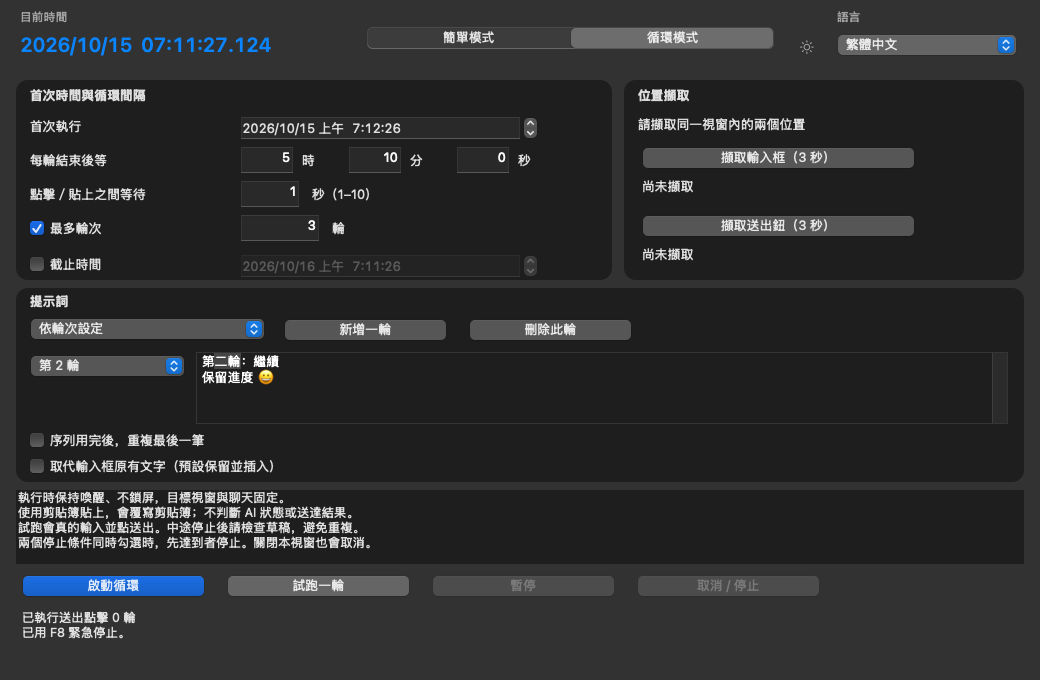
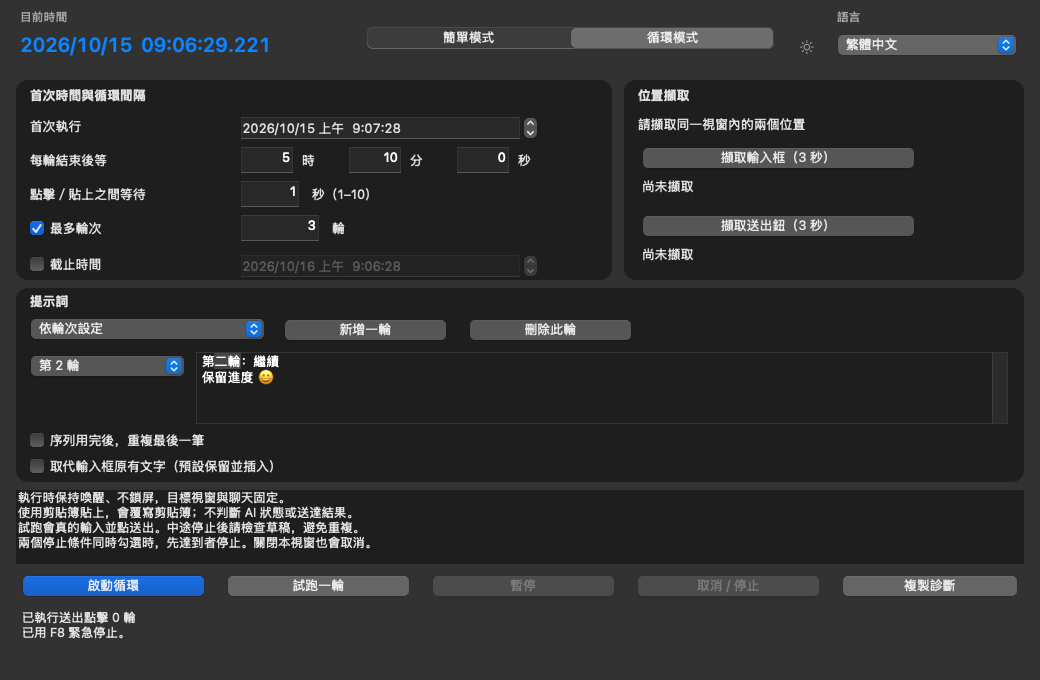
Document verified Mac build12003 and pending native foreground acceptance

diff --git a/docs/download/index.html b/docs/download/index.html
@@ -56,5 +56,5 @@
       <h2>Which files should I download?</h2><table><thead><tr><th>File</th><th>Purpose</th></tr></thead><tbody><tr><td><code>ScheduledClicker.exe</code></td><td>The Windows 11 application.</td></tr><tr><td><code>ScheduledClicker-macOS-universal.zip</code></td><td>The macOS app archive for Apple silicon and Intel.</td></tr><tr><td><code>ScheduledClicker-macOS-universal.sha256</code></td><td>A text checksum used to verify the macOS ZIP; not an application.</td></tr><tr><td>Source code archives</td><td>Automatically generated GitHub snapshots for developers who want to inspect or build the source.</td></tr></tbody></table>
       <h2>Before running</h2><p>Read the <a href="../safety-and-verification/">safety and verification guide</a>. Windows may show SmartScreen because the EXE is unsigned. macOS may require Control-click → Open and explicit Accessibility permission because the app is not notarized.</p>
     </section>
-  <section class="prose" id="preview"><h2>Preview 1.2.0-preview.2: loop mode, languages and appearance</h2><p>This is a test candidate, separate from the stable v1.1.2 buttons above. Windows redesign owner testing passed; preview-2 fixes pass regression checks. Mac Safari input needs owner retesting after the focus correction.</p><ol><li>Open the <a href="https://github.com/HaNa-486/ScheduledClicker/actions/runs/38696929654">verified preview build</a> (source commit <code>7a75cba</code>). Both platform jobs passed.</li><li>For macOS, download the <code>ScheduledClicker-macOS-universal</code> artifact. GitHub sign-in is required; artifacts expire.</li><li>Extract the outer artifact ZIP, then extract <code>ScheduledClicker-macOS-universal.zip</code> inside it. The app supports macOS 13+ on Apple silicon and Intel.</li><li>Compare <code>shasum -a 256 ScheduledClicker-macOS-universal.zip</code> with its adjacent <code>.sha256</code> file. Move the extracted app to Applications before granting Accessibility permission.</li></ol><p>The app is ad-hoc signed, not Apple-notarized. If macOS blocks opening, use its Privacy &amp; Security approval controls; do not disable Gatekeeper globally. After replacing an older build, macOS may require renewed Accessibility approval. Begin with a disposable text target and one trial round.</p><p>For Windows preview source/build instructions and current candidate evidence, see the <a href="https://github.com/HaNa-486/ScheduledClicker/tree/codex/recurring-prompt-loop">feature branch</a>. <a href="../recurring-input/">Read the feature and behavior guide</a>.</p></section></main><footer><span>ScheduledClicker 1.1.2 · MIT License</span><span><a href="../">Home</a> · <a href="../faq/">FAQ</a></span></footer>
+  <section class="prose" id="preview"><h2>Preview 1.2.0-preview.2: loop mode, languages and appearance</h2><p>This is a test candidate, separate from the stable v1.1.2 buttons above. Windows redesign owner testing passed; preview-2 fixes pass regression checks. Mac build 12002 failed native Safari and Word tests. The current Mac build 12003 changes foreground verification and activation; native owner acceptance is still pending.</p><ol><li>Open the <a href="https://github.com/HaNa-486/ScheduledClicker/actions/runs/38710315157">verified preview build</a> (source commit <code>05861ea</code>). Both platform jobs passed.</li><li>For macOS, download the <a href="https://github.com/HaNa-486/ScheduledClicker/actions/runs/38710315157/artifacts/11960920186">exact build 12003 artifact</a> named <code>ScheduledClicker-macOS-universal</code>. Confirm <code>build 12003</code> in the app title; capture labels should name your target app. If a trial fails, use Copy diagnostics. GitHub sign-in is required; artifacts expire.</li><li>Extract the outer artifact ZIP, then extract <code>ScheduledClicker-macOS-universal.zip</code> inside it. The app supports macOS 13+ on Apple silicon and Intel.</li><li>Compare <code>shasum -a 256 ScheduledClicker-macOS-universal.zip</code> with its adjacent <code>.sha256</code> file. Move the extracted app to Applications before granting Accessibility permission.</li></ol><p>The app is ad-hoc signed, not Apple-notarized. If macOS blocks opening, use its Privacy &amp; Security approval controls; do not disable Gatekeeper globally. After replacing an older build, macOS may require renewed Accessibility approval. Begin with a disposable text target and one trial round.</p><p>For Windows preview source/build instructions and current candidate evidence, see the <a href="https://github.com/HaNa-486/ScheduledClicker/tree/codex/recurring-prompt-loop">feature branch</a>. <a href="../recurring-input/">Read the feature and behavior guide</a>.</p></section></main><footer><span>ScheduledClicker 1.1.2 · MIT License</span><span><a href="../">Home</a> · <a href="../faq/">FAQ</a></span></footer>
 </body></html>

diff --git a/.pdos/STATE.md b/.pdos/STATE.md
@@ -1,15 +1,15 @@
 # PDOS state
 
 - Protocol version: 0.4.0-alpha.1
-- State revision: 24
+- State revision: 25
 - Updated: 2026-10-15
 - State confidence: high for Windows owner acceptance and both-platform CI/core/UI evidence; Mac native external input remains unverified
-- Phase: preview.2 native retest failed; foreground diagnosis and activation correction in progress, no release
+- Phase: build 12002 native retest failed; build 12003 correction delivered for native acceptance, no release
 
 ## Repository identity
 
 - Branch: codex/recurring-prompt-loop
-- Observed commit: d07f0cf
+- Observed commit: 05861ea
 
 ## Product anchors
 
@@ -21,21 +21,21 @@
 
 ## Current work
 
-- Current slice: Owner confirms new app replaced, caret visible, Safari and Word fail with complete no-code focus message. Under build12002 this maps to NSWorkspace foreground PID guard; wrong captured owner vs foreground-state discrepancy remain unproven. Add live AX keyboard-owner check, separate bounded activation phase and content-free diagnostics.
-- Workstream: `workstreams/2026-10-15-macos-foreground-diagnosis.md` active; earlier workstreams paused.
+- Current slice: Owner confirms new app replaced, caret visible, Safari and Word fail with complete no-code focus message. Under build12002 this maps to NSWorkspace foreground PID guard; wrong captured owner vs foreground-state discrepancy remain unproven. Live AX keyboard-owner check, separate bounded activation phase and content-free diagnostics implemented in build 12003; underlying native trigger still unproven.
+- Workstream: `workstreams/2026-10-15-macos-foreground-diagnosis.md` paused for owner native acceptance; earlier workstreams paused.
 - Active review: `reviews/REV-20261015-macos-input.md`; independent focus/privacy source recheck passes, no native Safari claim.
-- Active remediations: localized starter F002 verified; focus F001 and wheel F003 implemented pending owner native acceptance. Earlier loop wrong-window F001 remains unverified.
+- Active remediations: localized starter F002 verified; focus F001, foreground F004 and wheel F003 implemented pending owner native acceptance. Earlier loop wrong-window F001 remains unverified.
 - Blocking dependencies: none for candidate/source delivery. Native Mac Accessibility, paste/send and physical F8 require a Mac desktop.
 - Consequential open decisions: production merge, stable release, site deployment and Developer ID signing/notarization remain owner-controlled. Current user request authorizes feature-branch push and Mac CI after Windows acceptance.
 
 ## Handoff
 
-- What changed: preview.2 / Mac build 12002 uses AX owning-window identity and top-level checks, content-free focus diagnostics, localized untouched starter prompts on both platforms and bounded Mac wheel number fields. Discovery source/download links updated to this candidate.
-- Verification evidence: CI 38696929654 at 7a75cba both platforms pass. Mac 21/40 core, 9 focus-policy, 15 number-field, 1091 localization checks and 24 UI renders; Windows full regression plus 2077 localization checks. ZIP hash/version verified. See `../VERIFICATION.md`.
+- What changed: Mac build 12003 uses live AX keyboard owner, staged target activation with wait/revalidation, captured app and build labels, and copyable content-free diagnostics. Existing identity, localized starter and wheel changes retained. README/download source and AI summary point to this exact candidate.
+- Verification evidence: CI 38710315157 at 05861ea both platforms pass. Mac 21/54 core, 10 focus-policy, 15 number-field, 1111 localization and 24 renders; Windows full regression plus 2097 localization. ZIP build12003/hash checked; independent state/privacy review passes. See `../VERIFICATION.md`.
 - Not verified: Mac native external clipboard/paste/send, wrong sibling window rejection, physical F8 routing, every display/DPI/assistive-technology combination, notarization and live site publication.
 - Residual risks: fixed coordinates cannot identify changed chat/field semantics; send click does not prove delivery; clipboard is overwritten and may retain prompt; cancellation cannot undo completed input. CI artifacts expire and require GitHub sign-in.
 - Release assessment: native Mac loop acceptance failed on preview.1; preview.2 also failed Safari and Word native retest, not a stable cross-platform release. Windows owner accepted the local redesign. Tracked prior release executable preserved; website source is not deployed.
-- Next safe action: owner repeats Safari trial and sibling-window refusal using preview.2/build 12002, plus numeric wheel and untouched prompt language checks; no formal release until accepted.
+- Next safe action: owner confirms title build12003 and correct captured app, repeats Safari/Word trial and wrong-window refusal; if failed, Copy diagnostics identifies exact stage and OS. No formal release until native acceptance.
 
 ## Read next
 

diff --git a/README.md b/README.md
@@ -15,7 +15,7 @@ It was created for workflows such as sending a prepared Codex message after the 
 
 ## Key features
 
-**Preview 1.2.0-preview.2:** bounded recurring input/send, a shared simple/loop window, five interface languages and system-selected light/dark appearance. Windows owner testing of the redesign passed on 2026-10-15; the preview-2 fixes pass automated regression checks. Mac universal build and native appearance evidence passed [CI run 38696929654](https://github.com/HaNa-486/ScheduledClicker/actions/runs/38696929654); native input still requires a local desktop test. Released v1.1.2 downloads provide the one-shot workflow below.
+**Preview 1.2.0-preview.2:** bounded recurring input/send, a shared simple/loop window, five interface languages and system-selected light/dark appearance. Windows owner testing of the redesign passed on 2026-10-15; the preview-2 fixes pass automated regression checks. Mac universal build and native appearance evidence passed [CI run 38710315157](https://github.com/HaNa-486/ScheduledClicker/actions/runs/38710315157); Mac build 12003 updates foreground verification and activation after build 12002 failed native Safari and Word tests. Native input remains pending owner acceptance. Released v1.1.2 downloads provide the one-shot workflow below.
 
 - Schedule one click at an exact future date and time.
 - Schedule one click after a seconds, minutes, or hours delay.
@@ -37,7 +37,9 @@ These changes are **unreleased**. Windows is available as a local review candida
 
 ## Preview Mac download and local test
 
-Open the successful [feature branch build](https://github.com/HaNa-486/ScheduledClicker/actions/runs/38696929654), sign in to GitHub, and download `ScheduledClicker-macOS-universal`. Extract the outer Actions artifact, then extract the app ZIP inside. Verify its adjacent SHA-256, move the app to Applications, and grant Accessibility permission. Builds are ad-hoc signed, not Apple-notarized; artifacts expire. Source bundle metadata is 1.2.0, build 12002, identifying this preview rather than the stable v1.1.2.
+Open the successful [feature branch build](https://github.com/HaNa-486/ScheduledClicker/actions/runs/38710315157), sign in to GitHub, and download `ScheduledClicker-macOS-universal`. Extract the outer Actions artifact, then extract the app ZIP inside. Verify its adjacent SHA-256, move the app to Applications, and grant Accessibility permission. Builds are ad-hoc signed, not Apple-notarized; artifacts expire. Source bundle metadata is 1.2.0, build 12003 (visible in the window title), identifying this preview rather than the stable v1.1.2.
+
+[Download the exact Mac build 12003 artifact](https://github.com/HaNa-486/ScheduledClicker/actions/runs/38710315157/artifacts/11960920186). This is a Mac correction within the current preview series; the Windows candidate version remains preview.2. Capture labels now show the target app. Mac requests target activation, waits one configured step delay, then checks live keyboard ownership before clicking the input. If a trial stops, use **Copy diagnostics** and include that text in the report; it contains build/OS, app/PID/window IDs and execution stages, not prompts or window titles. Copying diagnostics replaces the clipboard.
 
 Start with a disposable text window and one trial round. Verify paste/send, pause/cancel and F8 (or Fn+F8), both appearances and language switching. Check that moving focus to another window stops the pending paste without replacing the clipboard. The preview cannot detect a changed chat or confirm delivery. See [preview guide](docs/recurring-input/index.html) and [verification](VERIFICATION.md).
 

diff --git a/macOS/TESTING.md b/macOS/TESTING.md
@@ -13,10 +13,12 @@ The universal ZIP supports macOS 13+ on Apple silicon and Intel. CI builds both 
 
 Report the macOS version, Intel/Apple silicon, preview build, step and observed result. Do not use a real conversation until the harmless target passes. A completed send click does not prove message delivery in another app.
 
-## Preview 2 targeted retest (build 12002)
+## Current targeted retest (Mac build 12003)
 
-1. Fully quit the older app, replace it with this build, and confirm Accessibility permission belongs to the new copy. Use Safari on the same external display/clamshell setup that failed.
-2. Run one harmless trial in ManualTarget.html. Accept only if exactly one complete Unicode entry appears. If stopped, report the full error including `focus.*` or `AX.*` code; these contain no prompt/window-title data. Also test sibling Safari windows and a modal sheet; do not accept text being sent to either unintended target.
+1. Fully quit the older app, replace it with this build, and confirm **build 12003** in the window title. Confirm Accessibility permission belongs to the new copy. Use Safari on the same external display/clamshell setup that failed. Capture labels must say Safari (or Microsoft Word when testing Word), not ScheduledClicker or a system process.
+2. Run one harmless trial in ManualTarget.html. Accept only if exactly one complete Unicode entry appears. The Mac loop first requests target activation and waits one configured step delay before the input click; each later action also waits its configured delay. If stopped, click **Copy diagnostics** and paste the result into the report. It includes build, macOS version, target app/PID/window/layer, observed foreground PIDs and stage/error details; it does not read prompt text, clipboard contents or window titles. Copying diagnostics replaces the clipboard. Also test sibling Safari windows and a modal sheet; do not accept text being sent to either unintended target.
 3. Before editing the starter prompt, switch all five languages: 繼續 / Continue / 続けて / 계속 / Weiter. Type a custom prompt (including a manually typed 繼續), switch again, and verify your text stays unchanged. Windows follows the same rule. A running schedule retains its original prompt snapshot.
 4. Hover over hours/minutes/seconds in either mode, then the loop step-delay and round count. Mouse wheel adjusts by one per event; trackpad motion accumulates and ignores inertia. Check minimum/maximum, typing then scrolling, disabled fields, and hidden modes. These fields still allow typing. Date pickers retain their native segment/stepper behavior.
 5. Keep using the disposable target until normal trial plus wrong-window refusal pass. The repaired focus policy has automated identity tests, but the original Safari failure cannot be declared resolved until this native retest succeeds.
+
+Build 12002 failed owner trials in both Safari and Word with a caret visible and an uncoded foreground error. Build 12003 is a correction candidate, not proof of native repair. Use the disposable browser target for send/count acceptance; a Word scratch document can independently check Unicode paste, but its captured second click is not message delivery. Stop/F8, deadline and wrong-window refusal must still pass.

diff --git a/VERIFICATION.md b/VERIFICATION.md
@@ -1,5 +1,16 @@
 # 驗證報告
 
+## 2026-10-15：Mac 前景程式檢查與啟用流程修正候選（build 12003）
+
+- 實機證據：使用者確認已替換 build 12002，Safari 與 Word 都無法循環輸入；輸入框有游標。完整錯誤沒有代碼。對照該版本，無代碼訊息來自外層 NSWorkspace 前景 PID 檢查，發生在剪貼簿寫入前。前景狀態差異或擷取到錯誤 owner 的底層原因仍未確定；不能把游標或程式碼推論當成已證實的 native root cause。
+- 修正：改查 system-wide AXFocusedApplication 的鍵盤接收程序；每輪先驗證擷取位置、必要時要求目標程式啟用，等待一個設定的步驟間隔，下一個 tick 再檢查後點擊。貼上前仍檢查 AX owning-window 與 top-level 身分。取消、F8、截止與逾時仍阻止後續步驟，沒有延遲貼上 callback；沒有 Safari/Word 特例。
+- 可觀測性：標題顯示 build 12003、擷取位置顯示 App 名稱；新增五語系「複製診斷」。只包含 build/OS、程序/視窗 ID、layer、前景比對與階段/錯誤，不讀取提示詞、剪貼簿內容或視窗標題。使用者主動複製診斷會覆蓋剪貼簿。
+- [CI 38710315157](https://github.com/HaNa-486/ScheduledClicker/actions/runs/38710315157)，來源 `05861ea`，兩平台成功：Mac 21 原核心、54 循環、10 焦點策略、15 數字欄位、1111 語系檢查、自我檢查與 24 渲染；Windows 40 循環、10 原核心、2097 語系／版面、15 選單、153 外觀、20 日期及共用視窗通過。中文深色 Mac 循環渲染已檢視，複製診斷按鈕完整可見。
[1 lines of base64/hex data omitted]
+- 獨立唯讀審查：未發現新的狀態機、API、診斷隱私或取消流程阻擋問題；審查不是原生輸入驗證。依據 [Apple AXFocusedApplication 文件](https://developer.apple.com/documentation/applicationservices/kaxfocusedapplicationattribute)，該屬性識別目前接受鍵盤輸入的程式。
+- 狀態：build 12002 實機驗收失敗；build 12003 僅為修正候選，Safari/Word 貼上、錯誤 sibling 視窗拒絕、外接螢幕與實體 F8 仍待使用者驗收。Windows 功能未改，candidate 版本仍 preview.2。未合併、未正式發布、未部署網站。前次段落為歷史證據。
+
+
 ## 2026-10-15：Mac Safari 焦點、預設提示詞與數字滾輪修正（preview.2）
 
 - 使用者在 MacBook Air 闔蓋、單一外接螢幕的 Safari 上回報：單點成功，循環貼上前顯示焦點離開。原版把 AX 查詢失敗、跨 API 框架不完全相等、同程序視窗順序不符都合併為焦點離開。已確認檢查設計與診斷有問題，但無原機資料，不能斷言是哪一個條件觸發本次故障。

diff --git a/.pdos/reviews/REV-20261015-macos-input.md b/.pdos/reviews/REV-20261015-macos-input.md
@@ -59,3 +59,20 @@ Independent read-only reviewer checked both focus implementation and followup re
 - Residual risk: Hardware event routing and natural-scroll preferences still require owner Mac retest; date fields retain native stepper behavior.
 - Autonomy class: auto-decide
 - Remediation: remediations/REM-20261015-macos-input-F003.md
+
+### F-004
+
+- Severity: high
+- Confidence: high for the failed guard; underlying native trigger unproven
+- Status: implemented
+- Evidence: Owner replaced build 12002, observes caret, and Safari/Word both fail with the complete no-code foreground message and zero send rounds.
+- User impact: Mac critical input journey still cannot complete; prior diagnostics omitted the failing outer guard.
+- Root cause: Confirmed code path is NSWorkspace foreground PID mismatch before clipboard writes. Captured CG owner mismatch versus foreground-state discrepancy remains a hypothesis, not an established native cause.
+- Recommended solution: Query live AX keyboard-owning app; request target activation as a separate cancellable stage, wait and revalidate; show captured app/build and copyable content-free stage diagnostics.
+- Alternatives and tradeoffs: Removing guards or app exemptions risks wrong-target input. Activation adds one configured step delay and may legitimately fail; success still requires live focus validation.
+- Affected areas: Mac LoopInput, LoopCore, LoopWindow, AppDelegate, tests and shared translations.
+- Acceptance criteria: Safari/Word normal paste succeeds; wrong sibling/sheet/unknown focus refuses before clipboard writes; stop/deadline prevents remaining steps; copied diagnostics identifies stage without prompt/title/clipboard contents.
+- Verification: CI 38710315157 at 05861ea passes both platforms (54 Mac loop, 10 focus policy, 1111 localization). Independent read-only review found no new privacy/state/API blockers. Exact build12003 ZIP hash and metadata verified; UI copy action visible. Native input not executed here.
+- Residual risk: The user's actual Mac foreground behavior and cause remain unknown until native retest; compile/fake policies do not prove native paste works.
+- Autonomy class: independent-review-required
+- Remediation: remediations/REM-20261015-macos-input-F004.md

diff --git a/.pdos/specs/macos-input-repair.md b/.pdos/specs/macos-input-repair.md
@@ -7,4 +7,7 @@
 - Starter: current locale at construction and idle manual switches; only untouched initial prompt is UI-owned. Editing or deleting it permanently ends auto-translation. Added rounds remain blank. Captured running plan remains unchanged.
 - Numbers: both-mode hours/minutes/seconds, loop wait and count use existing limits. Discrete wheel adjusts one; precise trackpad deltas accumulate; momentum ignored; only enabled visible hovered fields in the active app window consume events. Active typed text must win over stale field value; invalid draft remains for normal validation. Date pickers retain native segments/stepper.
 - Acceptance: build/tests plus independent source review establish implementation; owner repeats Safari trial, sibling-window/sheet refusal and physical wheel tests before native acceptance or formal release.
-- Delivery: preview 1.2.0-preview.2, Mac bundle 1.2.0/build 12002; Windows informational version matches.
+- Delivery: preview series 1.2.0-preview.2, updated Mac bundle 1.2.0/build 12003; Windows candidate metadata remains preview.2. Mac title exposes the build.
+
+- Repeated-failure correction: AXFocusedApplication identifies the live keyboard owner; NSWorkspace PID is diagnostic comparison only. A separate activation request stage waits one configured step delay before revalidating and clicking. Cancellation/deadline/late checks apply to this stage. No queued paste or retries. Capture refuses unactivatable system owners rather than skipping overlays.
+- Diagnostics: user-triggered clipboard copy only while idle; bounded in-memory trace includes build/OS, app/PID/window/layer and stage/error, never prompt/clipboard contents or window title. No file/network persistence.

diff --git a/.pdos/remediations/REM-20261015-macos-input-F004.md b/.pdos/remediations/REM-20261015-macos-input-F004.md
@@ -1,0 +1,32 @@
+# Remediation: Mac live keyboard owner and target activation
+
+- Remediation ID: REM-20261015-macos-input-F004
+- Review finding: reviews/REV-20261015-macos-input.md#F-004
+- Status: implemented
+- Severity: high
+- Autonomy class: independent-review-required
+- Owner: Mac foreground diagnosis
+- Updated: 2026-10-15T09:13:13Z
+- Decision authority: Owner scope and independent reviewer
+- Reason: Candidate delivered; native journey not yet verified
+- Revisit condition: Owner native retest
+
+## Plan
+
+- Recommended solution: Live AX keyboard PID, staged activation, revalidation, captured app/build labels and copyable diagnostics.
+- Acceptance criteria: Normal native paste plus sibling refusal, cancellation/deadline and diagnostic privacy pass.
+- Verification plan: CI policy/state tests and independent source review, followed by owner Safari/Word acceptance.
+- Rollback: Use simple mode; withhold stable release if native journey fails.
+
+## Evidence
+
+- Implementation: 05861ea; Mac build 12003. No browser/app-specific exemption.
+- Verification: CI 38710315157; VERIFICATION.md; independent review
+- Residual risk: No native external paste/send or physical F8 verification. Original mismatch trigger remains unproven.
+
+## History
+
+- 2026-10-15 open: Repeated native error and caret evidence recorded.
+- 2026-10-15T09:13:13Z planned: VERIFICATION.md; CI 38710315157 and independent review.
+- 2026-10-15T09:13:13Z in_progress: 05861ea implementation.
+- 2026-10-15T09:13:13Z implemented: CI 38710315157; VERIFICATION.md; independent review.

diff --git a/.pdos/plans/active.md b/.pdos/plans/active.md
@@ -4,6 +4,7 @@ Current status is the first row. Earlier rows record slice-time evidence; Window
 
 | Slice | Outcome | Risk | Verification | Status |
 |---|---|---|---|---|
+| Mac foreground diagnosis | Live AX keyboard owner, staged activation, copyable diagnostics | Wrong-target input / cancel race | CI 38710315157, 54 loop + 10 focus + full regression; independent review | build 12003 implemented; native retest pending |
 | Mac acceptance repair | AX identity, untouched prompt localization, numeric wheel | Wrong-target input / native Safari compatibility | CI 38696929654, 9 focus + 15 numbers + full regression | preview.2 implemented; owner native retest |
 | Mac preview + discovery | Universal 1.2.0-preview.1、九頁版本化內容與 AI 摘要 | 原生輸入／公開發布界線 | CI 38688961403、24 Mac renders、9 pages + 71 facts、獨立審查 | candidate verified; native Mac owner testing pending |
 | 深淺色視覺重設計 | 中性色層次、圓角元件、小型日月按鈕、Mac 原生外觀 | 日期編輯、可讀性、語系與焦點回歸 | Windows 2066 locale + 153 appearance + 15 picker + 20 date checks；Mac source only | Windows local aesthetic review; Mac deferred |

diff --git a/.pdos/workstreams/2026-10-15-macos-foreground-diagnosis.md b/.pdos/workstreams/2026-10-15-macos-foreground-diagnosis.md
@@ -1,8 +1,8 @@
 # Workstream: Diagnose repeated Mac no-code foreground rejection before paste; make activation and capture evidence observable
 
-- Status: active
+- Status: paused
 - Started: 2026-10-15T08:59:19Z
-- Updated: 2026-10-15T08:59:19Z
+- Updated: 2026-10-15T09:13:13Z
 - Branch: codex/recurring-prompt-loop
 - Base commit: d07f0cf846156142b95d36704ad174cbf15535dd
 - Scope: Diagnose repeated Mac no-code foreground rejection before paste; make activation and capture evidence observable
@@ -16,7 +16,7 @@
 
 ## Handoff
 
-- What changed:
-- Verification:
-- Residual risks:
-- Next safe action:
+- What changed: Build12003 live AX owner, staged activation, app/build labels and copyable diagnostics; exact delivery links.
+- Residual risks: Native Safari/Word paste, sibling refusal and physical F8 remain unverified; mismatch trigger unproven.
+- Verification: CI 38710315157 both platforms pass; independent review; ZIP metadata/hash and render checked. Site, discovery, catalog and strict PDOS checks pass.
+- Next safe action: Owner retests build12003, confirms captured app, copies diagnostics if failure.

diff --git a/.pdos/remediations/REM-20261015-macos-input-F001.md b/.pdos/remediations/REM-20261015-macos-input-F001.md
@@ -30,3 +30,5 @@
 - 2026-10-15T07:12:54Z planned: Owner-authorized scoped repair; implementation and independent review recorded..
 - 2026-10-15T07:12:54Z in_progress: Owner-authorized scoped repair; implementation and independent review recorded..
 - 2026-10-15T07:12:55Z implemented: Owner-authorized scoped repair; implementation and independent review recorded..
+
+- 2026-10-15 native retest: build 12002 still fails Safari and Word with caret visible and no-code outer foreground error. F004 tracks that guard and observability correction. This record remains implemented, not verified.
